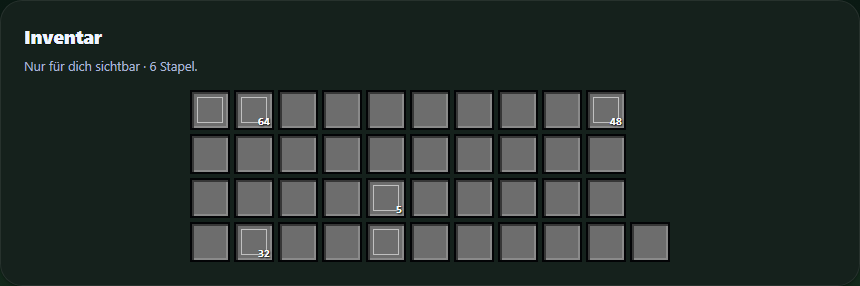
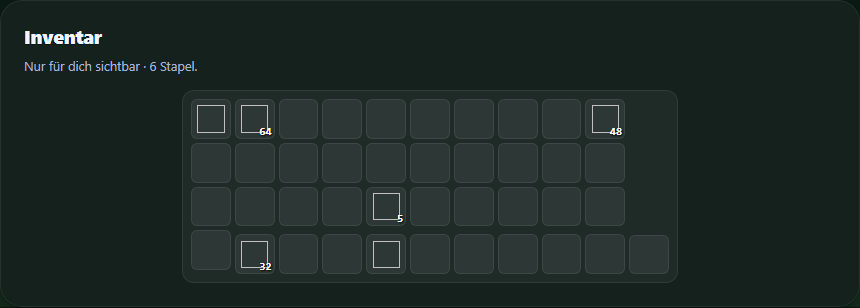
fix(mc): profile inventory styled like nwebnotfound.dev/profile (backplate, rounded 1px slots)

diff --git a/public/mc/profile.css b/public/mc/profile.css
@@ -103,8 +103,12 @@ html.mc #pb .inv .ivg{grid-template-columns:repeat(9,minmax(0,1fr))}
 html.mc #pb .inv .iv-off{grid-column:11;grid-template-columns:minmax(0,1fr);align-self:end;justify-self:stretch}
 html.mc #pb .inv .ivs{box-sizing:border-box;width:100%;height:auto;aspect-ratio:1;min-width:0}
 html.mc #pb .inv .ivs img{width:72%;height:72%;object-fit:contain;object-position:center}
-/* One look for all 41 slots: filled slots use the same tone as empty ones (only the item differs) (the hotbar keeps its deliberate gap; columns and size are identical to the rows above). */
-html.mc #pb .inv .ivs,html.mc #pb .inv .ivs.e{background:var(--mc-slot-dim)}
+/* Same look as the inventory on nwebnotfound.dev/profile (Nils, 06.11.): soft backplate behind the whole
+   pane, rounded slots with a 1px line and a faint tint, filled slots identical to empty ones (only the item
+   differs). Layout and slot geometry stay as above (mc-inventory-ui). */
+html.mc #pb .inv .iv-pane{box-sizing:border-box;max-width:calc(480px + 2 * var(--sp2));padding:var(--sp2);background:color-mix(in srgb,var(--ink) 5%,transparent);border:1px solid var(--line);border-radius:12px}
+html.mc #pb .inv .ivs,html.mc #pb .inv .ivs.e{background:color-mix(in srgb,var(--ink) 7%,transparent);border:1px solid var(--line);border-radius:6px;box-shadow:none}
+html.mc #pb .inv .ivs img{image-rendering:pixelated}
 html.mc #pb .inv .ivs b{font-family:var(--f-px,monospace);color:#fff;text-shadow:1px 1px 2px #000;font-size:.7rem}
 
 @media(max-width:560px){
